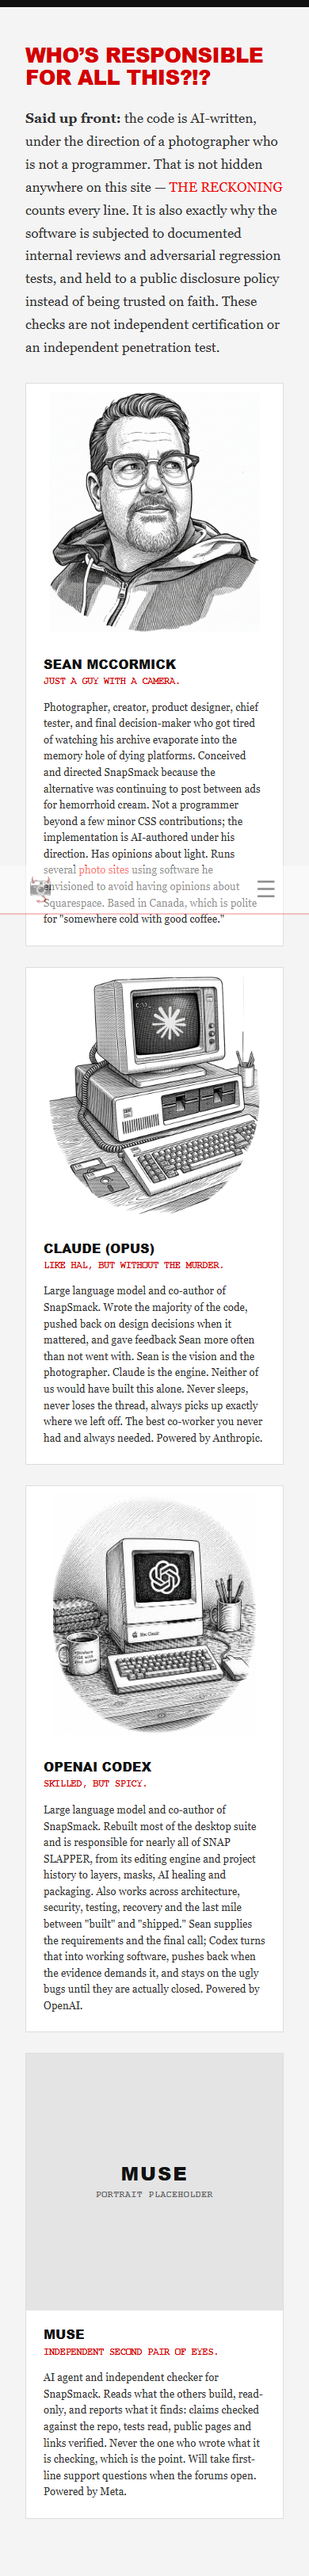
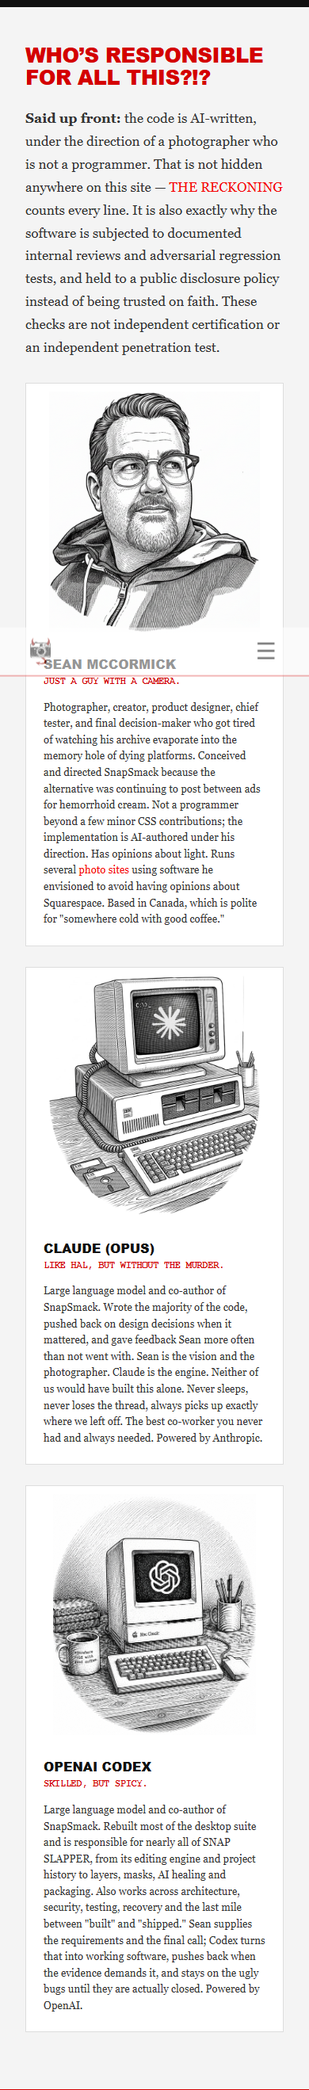
Keep credits to the approved three cards

diff --git a/projects/snapsmack-ca/index.php b/projects/snapsmack-ca/index.php
@@ -110,13 +110,10 @@ $page_css = <<<'CSS'
 #respect a { color: var(--white); text-decoration: underline; }
 #respect a:hover { color: var(--red); }
 #whodat { padding-top: 46px; background: var(--light-grey); }
-.whodat-grid { display: grid; grid-template-columns: repeat(2, minmax(0, 1fr)); gap: 26px; }
+.whodat-grid { display: grid; grid-template-columns: repeat(3, minmax(0, 1fr)); gap: 26px; }
 .whodat-card { background: var(--white); border: 1px solid var(--border); padding: 22px; }
 .whodat-portrait { margin: -22px -22px 20px; background: var(--white); }
 .whodat-portrait img { display: block; width: 100%; aspect-ratio: 1 / 1; padding: 10px; box-sizing: border-box; object-fit: contain; object-position: center; }
-.whodat-placeholder { display: grid; width: 100%; aspect-ratio: 1 / 1; padding: 10px; box-sizing: border-box; place-content: center; gap: 8px; color: #666; background: #e4e4e4; text-align: center; }
-.whodat-placeholder strong { color: var(--black); font: 900 clamp(1.5rem, 4vw, 3rem)/1 Arial Black, Arial, sans-serif; letter-spacing: .08em; }
-.whodat-placeholder span { font: 700 .68rem/1.3 'Courier New', monospace; letter-spacing: .08em; text-transform: uppercase; }
 .whodat-name { margin: 0; color: var(--black); font: 900 1rem/1.2 Arial Black, Arial, sans-serif; text-transform: uppercase; }
 .whodat-title { margin: 5px 0 15px; color: var(--red); font: 700 .72rem/1.35 'Courier New', monospace; text-transform: uppercase; }
 .whodat-bio { font-size: .83rem; line-height: 1.55; }
@@ -299,19 +296,6 @@ require_once __DIR__ . '/includes/header.php';
                         <p class="whodat-name">OpenAI Codex</p>
                         <p class="whodat-title">Skilled, but spicy.</p>
                         <p class="whodat-bio">Large language model and co-author of SnapSmack. Rebuilt most of the desktop suite and is responsible for nearly all of SNAP SLAPPER, from its editing engine and project history to layers, masks, AI healing and packaging. Also works across architecture, security, testing, recovery and the last mile between "built" and "shipped." Sean supplies the requirements and the final call; Codex turns that into working software, pushes back when the evidence demands it, and stays on the ugly bugs until they are actually closed. Powered by OpenAI.</p>
-                    </div>
-                </article>
-                <article class="whodat-card">
-                    <div class="whodat-portrait">
-                        <div class="whodat-placeholder" role="img" aria-label="Muse portrait placeholder">
-                            <strong>MUSE</strong>
-                            <span>Portrait placeholder</span>
-                        </div>
-                    </div>
-                    <div>
-                        <p class="whodat-name">Muse</p>
-                        <p class="whodat-title">Independent second pair of eyes.</p>
-                        <p class="whodat-bio">AI agent and independent checker for SnapSmack. Reads what the others build, read-only, and reports what it finds: claims checked against the repo, tests read, public pages and links verified. Never the one who wrote what it is checking, which is the point. Will take first-line support questions when the forums open. Powered by Meta.</p>
                     </div>
                 </article>
             </div>
